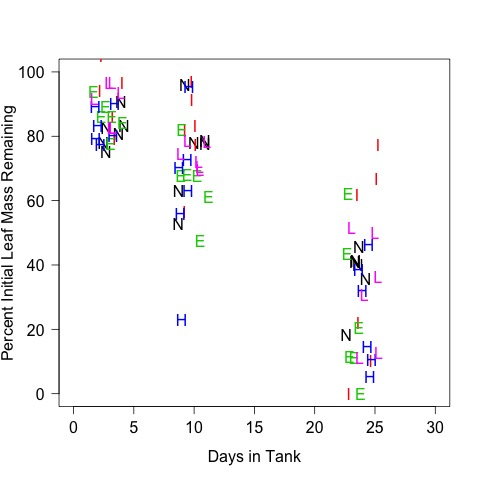
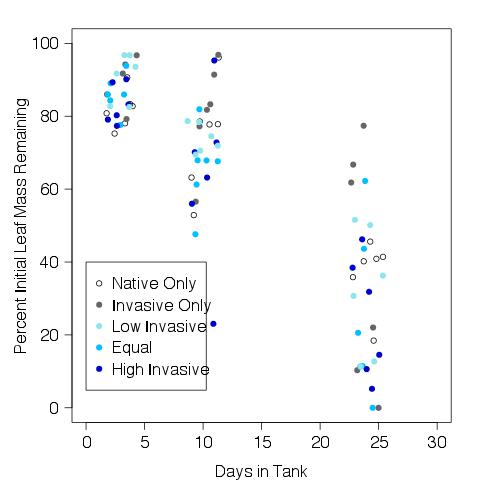
mass loss fig

diff --git a/lab_notebook/analysis/tank_chl_analysis.md b/lab_notebook/analysis/tank_chl_analysis.md
@@ -6,6 +6,8 @@
 
 * modified 7 July 2016 - KF - added final CHL to the analysis
 
+* modified 12 July 2016 - KF - added figures to report
+
 ## Description
 
 This is the code to analyze the effect of crayfish community on the tank chlorophyll the experiment evaluating the impact of in invasive and native crayfish.
@@ -22,27 +24,44 @@ This is the code to analyze the effect of crayfish community on the tank chlorop
 
     chl <- merge(chl, treat, by = "tank")
 
+Three of the chl measurement read below 0, I removed these values from the analysis with the code below
+
+    chl.trunk <- chl
+    chl.trunk$Chl[chl.trunk$Chl < 0 ] <- NA
+    
 ### Analyze Chl by treatment
 
-    plot(Chl ~ treatment, data = chl)
-    plot(Chl ~ treatment, data = chl, subset = Date == "2016-06-03")
-    plot(Chl ~ treatment, data = chl, subset = Date == "2016-06-16")
-    plot(Chl ~ treatment, data = chl, subset = Date == "2016-06-30")
+#### create factor list in correct order
 
-    plot(Phaeo ~ treatment, data = chl)
-    plot(Phaeo ~ treatment, data = chl, subset = Date == "2016-06-03")
-    plot(Phaeo ~ treatment, data = chl, subset = Date == "2016-06-16")
-    plot(Phaeo ~ treatment, data = chl, subset = Date == "2016-06-30")
+    ordered.treat <- factor(chl.trunk$treatment, levels = c("N", "I", "L", "E", "H"))
 
-    plot(Chl ~ Date, data = chl)
-    plot(Phaeo ~ Date, data = chl)
-    
-    plot(Phaeo ~ Chl, data = chl)    
+#### Plots
+
+
+    par(las = 1, mar = c(4, 5, 2, 2))
+    plot(Chl ~ ordered.treat, data = chl.trunk, subset = Date == "2016-06-03", ylim = c(0, 50), ylab = expression(paste("Chlorophyll Concentration (", mu, "g L"^{-1}, ")")), xlab = " ", col = c("white", "gray40", "cadetblue2", "deepskyblue", "blue3"))
+    text(4, 50, "3 June")
+    dev.copy(jpeg, "./output/plots/chl_treat_T0.jpg")
+    dev.off()
+
+![Plot of Chl by treatment on T0](../output/plots/chl_treat_T0.jpg)
+
+    par(las = 1, mar = c(4, 5, 2, 2))
+    plot(Chl ~ ordered.treat, data = chl.trunk, subset = Date == "2016-06-16", ylim = c(0, 50), ylab = expression(paste("Chlorophyll Concentration (", mu, "g L"^{-1}, ")")), xlab = " ", col = c("white", "gray40", "cadetblue2", "deepskyblue", "blue3"))
+    text(4, 50, "16 June")
+    dev.copy(jpeg, "./output/plots/chl_treat_T1.jpg")
+    dev.off()
+
+![Plot of Chl by treatment on T1](../output/plots/chl_treat_T1.jpg)
+
+    par(las = 1, mar = c(4, 5, 2, 2))
+    plot(Chl ~ ordered.treat, data = chl.trunk, subset = Date == "2016-06-30", ylim = c(0, 50), ylab = expression(paste("Chlorophyll Concentration (", mu, "g L"^{-1}, ")")), xlab = " ", col = c("white", "gray40", "cadetblue2", "deepskyblue", "blue3"))
+    text(4, 50, "30 June")
+    dev.copy(jpeg, "./output/plots/chl_treat_T2.jpg")
+    dev.off()
+
+![Plot of Chl by treatment on T2](../output/plots/chl_treat_T2.jpg)
 
     anova(lm(Chl ~ treatment * Date, data = chl))
 
-    plot(Chl ~ tank, data = chl)
-    plot(Phaeo ~ tank, data = chl)
-
-    plot(pH ~ percDO, data = ysi)
-
+    

diff --git a/lab_notebook/analysis/leaf_mass_loss_analysis.md b/lab_notebook/analysis/leaf_mass_loss_analysis.md
@@ -105,12 +105,13 @@ F-statistic: 107.6 on 1 and 86 DF,  p-value: < 2.2e-16
 
 #### By Treatment over Time
  
-    par(las = 1)
-    plot(percAFDM.rem ~ jitter(as.numeric(days.elapsed), 1), data = leaf.AFDM, subset = treatment == "N", xlim = c(0, 30), ylim = c(0, 100), pch = "N", col = 1, xlab = "Days in Tank", ylab = "Percent Initial Leaf Mass Remaining")
-    points(percAFDM.rem ~ jitter(as.numeric(days.elapsed), 1), data = leaf.AFDM, subset = treatment == "I", pch = "I", col = 2)
-    points(percAFDM.rem ~ jitter(as.numeric(days.elapsed), 1), data = leaf.AFDM, subset = treatment == "E", pch = "E", col = 3)
-    points(percAFDM.rem ~ jitter(as.numeric(days.elapsed), 1), data = leaf.AFDM, subset = treatment == "H", pch = "H", col = 4)
-    points(percAFDM.rem ~ jitter(as.numeric(days.elapsed), 1), data = leaf.AFDM, subset = treatment == "L", pch = "L", col = 6)
+    par(las = 1, mar = c(4, 5, 2, 2))
+    plot(percAFDM.rem ~ jitter(as.numeric(days.elapsed), 1), data = leaf.AFDM, subset = treatment == "N", xlim = c(0, 30), ylim = c(0, 100), pch = 1, xlab = "Days in Tank", ylab = "Percent Initial Leaf Mass Remaining")
+    points(percAFDM.rem ~ jitter(as.numeric(days.elapsed), 1), data = leaf.AFDM, subset = treatment == "I", pch = 19, col = "gray40")
+    points(percAFDM.rem ~ jitter(as.numeric(days.elapsed), 1), data = leaf.AFDM, subset = treatment == "E", pch = 19, col = "deepskyblue")
+    points(percAFDM.rem ~ jitter(as.numeric(days.elapsed), 1), data = leaf.AFDM, subset = treatment == "H", pch = 19, col = "blue3")
+    points(percAFDM.rem ~ jitter(as.numeric(days.elapsed), 1), data = leaf.AFDM, subset = treatment == "L", pch = 19, col = "cadetblue2")
+    legend(0, 40, c("Native Only", "Invasive Only", "Low Invasive", "Equal", "High Invasive"), pch = c(1, 19, 19, 19, 19, 19), col = c(1, "gray40", "cadetblue2", "deepskyblue", "blue3"))
     dev.copy(jpeg, "./output/plots/percMassRem_by_treat_days.jpg")
     dev.off()
 
